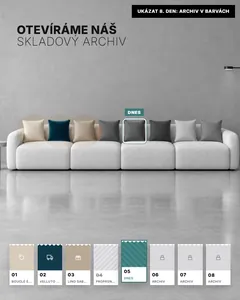
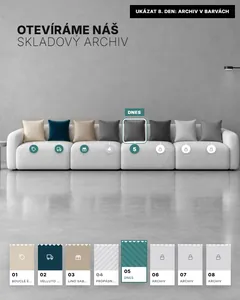
Tag each showroom cushion so it reads as a calendar window

diff --git a/index.html b/index.html
@@ -519,6 +519,15 @@
   .demo .vzk-head b { display: block; font-size: clamp(17px, 2.5vw, 28px); font-weight: 800; letter-spacing: .01em; }
   .demo .vzk-head span { display: block; font-size: clamp(17px, 2.5vw, 28px); font-weight: 200; letter-spacing: .02em; }
   .demo .vzk-pol { position: absolute; z-index: 3; padding: 0; border: 0; border-radius: 6px; background: transparent; cursor: pointer; }
+  .demo .vzk-pol { transition: box-shadow .2s ease; }
+  .demo .vzk-pol:hover { box-shadow: 0 0 0 2px #fff, 0 6px 16px rgba(0,0,0,.25); }
+  .demo .vzk-num { position: absolute; left: 50%; top: 100%; translate: -50% 6px; display: grid; place-items: center; min-width: 20px; height: 20px; padding: 0 5px; border-radius: 10px; background: #fff; color: #000; font-family: 'Inter', Arial, sans-serif; font-size: 10.5px; font-weight: 800; box-shadow: 0 2px 6px rgba(0,0,0,.2); }
+  .demo .vzk-num::before { content: ""; position: absolute; left: 50%; bottom: 100%; width: 1px; height: 7px; background: rgba(255,255,255,.9); }
+  .demo .vzk-num svg { width: 11px; height: 11px; }
+  .demo .vzk-pol.open .vzk-num { background: #3b7a78; color: #fff; }
+  .demo .vzk-pol.locked .vzk-num { color: #8c8e98; }
+  .demo .vzk-pol.missed .vzk-num { background: #c9cacf; color: #fff; text-decoration: line-through; }
+  .demo .vzk-pol.today .vzk-num { background: #3b7a78; color: #fff; scale: 1.15; }
   .demo .vzk-pol.today { box-shadow: 0 0 0 2px #fff, 0 0 0 4px #3b7a78, 0 0 22px 6px rgba(255,255,255,.7); animation: vzkPol 1.8s ease-in-out infinite; }
   .demo .vzk-pol.today::after { content: "Dnes"; position: absolute; left: 50%; bottom: calc(100% + 8px); translate: -50% 0; padding: 3px 7px; background: #3b7a78; color: #fff; font-family: 'Inter', Arial, sans-serif; font-size: 10px; font-weight: 800; letter-spacing: .1em; text-transform: uppercase; white-space: nowrap; }
   @keyframes vzkPol { 50% { box-shadow: 0 0 0 2px #fff, 0 0 0 4px rgba(59,122,120,.5), 0 0 10px 2px rgba(255,255,255,.4); } }
@@ -1904,7 +1913,7 @@
     h += '<div class="vzk-head" aria-hidden="true"><b>Otevíráme náš</b><span>skladový archiv</span></div>';
     for (d = 1; d <= n; d++) {
       var c = VZORKY[d - 1], s2 = stav(d);
-      h += '<button type="button" class="vzk-pol ' + s2 + '" data-den="' + d + '" tabindex="-1" aria-hidden="true" style="left:' + c[2] + '%;top:' + c[3] + '%;width:' + c[4] + '%;height:' + c[5] + '%"></button>';
+      h += '<button type="button" class="vzk-pol ' + s2 + '" data-den="' + d + '" tabindex="-1" aria-hidden="true" style="left:' + c[2] + '%;top:' + c[3] + '%;width:' + c[4] + '%;height:' + c[5] + '%"><span class="vzk-num">' + (s2 === 'open' ? ICO[DARKY.vzorky[d - 1].typ] : s2 === 'locked' ? ICO.zamek : d) + '</span></button>';
     }
     h += '<div class="vzk-row" role="group" aria-label="Vzorky látek">';
     for (d = 1; d <= n; d++) {

diff --git a/docs/vzhledy/koncepty.md b/docs/vzhledy/koncepty.md
@@ -149,9 +149,9 @@ Bright Scandinavian interior, straight-on view of a large empty white-painted wo
 ---
 
 ## 6. Prémiový nábytok (typ Konsepti): „Archiv v barvách“
-**Stav:** prerobené (vzhľad \`vzorky\`), anonymne. Prvá verzia s kreslenou pohovkou a vejárom bola slabá.
+**Stav:** prerobené (vzhľad `vzorky`), anonymne. Prvá verzia s kreslenou pohovkou a vejárom bola slabá.
 **Myšlienka:** 8 dní pred výpredajom „pokladů ze showroomu a skladu“ je showroom čiernobiely. Každý odkrytý deň vráti farbu jednému vankúšu na pohovke a jeho látka (vzorka s cikcakovým okrajom, No. 01–08, talianske názvy) otvorí dárok. Zmeškaný vankúš ostane sivý. Ôsmy deň sa celý showroom rozfarbí a objaví sa petrolejový štítok „24.–26. 9.“.
-**Médium:** fotka showroomu z Higgsfieldu (GPT Image 2.5, high, 2k, 2,75 kreditu, prvý pokus, \`img/showroom.webp\`). Sivá je CSS filter; farba je tá istá fotka orezaná presne na vankúš, takže všetko sedí. Farby vzoriek sú odčítané priamo z fotky.
+**Médium:** fotka showroomu z Higgsfieldu (GPT Image 2.5, high, 2k, 2,75 kreditu, prvý pokus, `img/showroom.webp`). Sivá je CSS filter; farba je tá istá fotka orezaná presne na vankúš, takže všetko sedí. Farby vzoriek sú odčítané priamo z fotky.
 
 ## Hlavička landing page (krok 4, len na porovnanie s moodboardom 01)
 Stromček v hlavičke nahradí **animovaný kalendár v kóde** v štýle bento videa:
